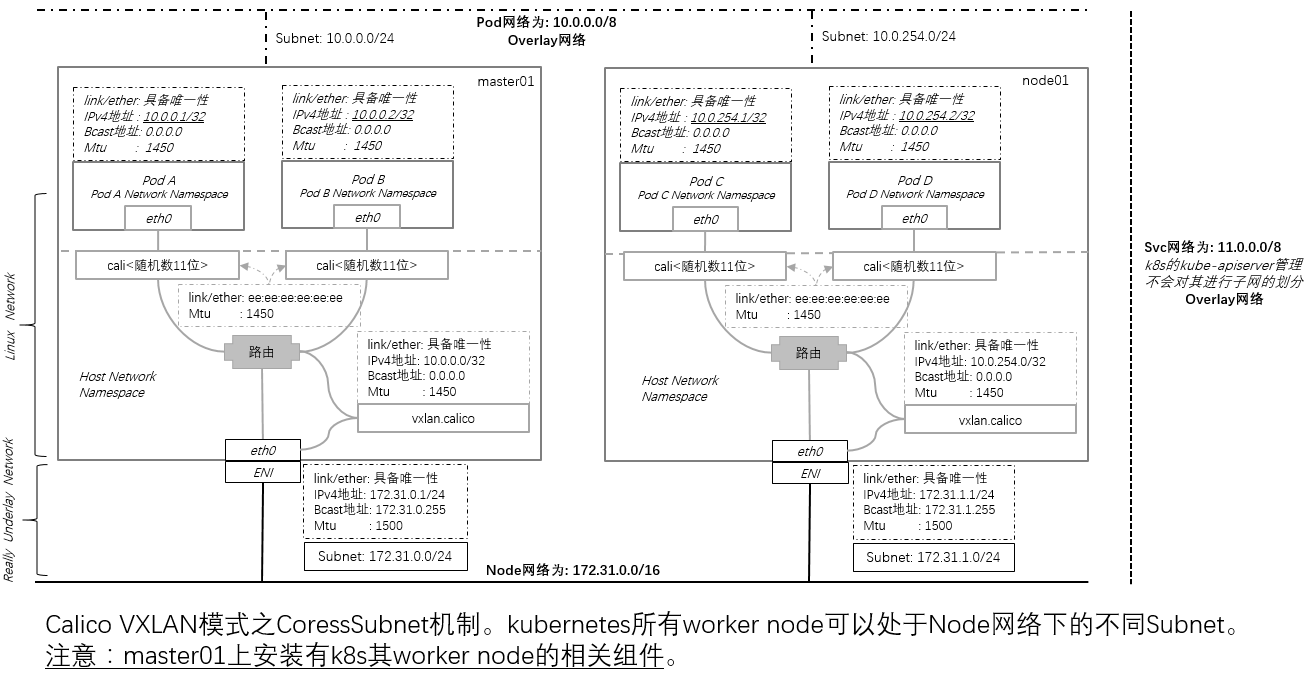
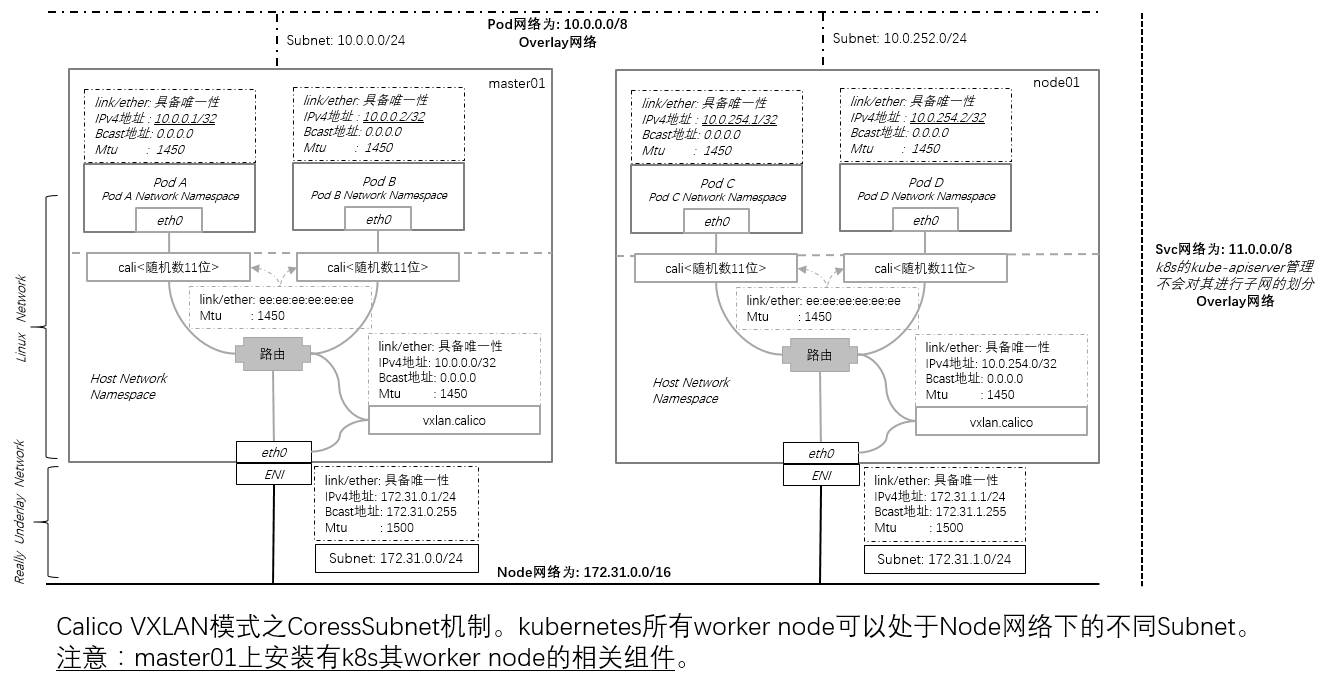
modified

Changed region(s): [[0.0, 0.0, 0.997, 0.8711], [0.0312, 0.9022, 0.9347, 0.9956], [0.8412, 0.0311, 0.8723, 0.0622]]

diff --git a/90.Addons/01.cni/02.calico/01.manifests-install-v3.26.5/03.kubernetes-api-datastore-more-than-50-nodes-but-VXLAN-CoressSubnet/install-step-and-describe.md b/90.Addons/01.cni/02.calico/01.manifests-install-v3.26.5/03.kubernetes-api-datastore-more-than-50-nodes-but-VXLAN-CoressSubnet/install-step-and-describe.md
@@ -5,22 +5,98 @@
 ## 1.2 各宿主机上的路由
 **Node网络下Subnet(172.31.0.0/24)下的节点(k8s node01)**
 ```
-.................
-.................
-.................
+Destination     Gateway         Genmask         Flags Metric Ref    Use Iface
+10.0.0.0        0.0.0.0         255.255.255.0   U     0      0        0 *
+10.0.0.1        0.0.0.0         255.255.255.255 UH    0      0        0 cali<随机数11位>
+10.0.0.2        0.0.0.0         255.255.255.255 UH    0      0        0 cali<随机数11位>
+10.0.0.3        0.0.0.0         255.255.255.255 UH    0      0        0 cali<随机数11位>
+........        .......         255.255.255.255 UH    0      0        0 cali<随机数11位>
+........        .......         255.255.255.255 UH    0      0        0 cali<随机数11位>
+10.0.0.255      0.0.0.0         255.255.255.255 UH    0      0        0 cali<随机数11位>   # node01宿主机上相关Pod副本(例如IP为10.0.0.255)在本机的路由 
+
+10.0.1.0        172.31.0.2      255.255.255.0   UG    0      0        0 eth0 
+10.0.2.0        172.31.0.3      255.255.255.0   UG    0      0        0 eth0 
+10.0.3.0        172.31.0.4      255.255.255.0   UG    0      0        0 eth0 
+........        ........        255.255.255.0   UG    0      0        0 eth0 
+........        ........        255.255.255.0   UG    0      0        0 eth0 
+10.0.251.0      172.31.0.252    255.255.255.0   UG    0      0        0 eth0               # node01宿主机所在Node网络下其Sbunet中其它宿主机从Pod网分得subnet的路由  
+
+0.0.0.0         172.31.0.253    0.0.0.0         UG    0      0        0 eth0               # node01到所处Node网络下Subnet其网关的路由 
+172.31.0.0      0.0.0.0         255.255.255.0   U     0      0        0 eth0               # node01到所处Node网络下Subnet其网关的路由 
+
+10.0.252.0      10.0.252.0      255.255.255.0   UG    0      0        0 vxlan.calico      
+10.0.253.0      10.0.253.0      255.255.255.0   UG    0      0        0 vxlan.calico      
+10.0.254.0      10.0.254.0      255.255.255.0   UG    0      0        0 vxlan.calico
+10.0.255.0      10.0.255.0      255.255.255.0   UG    0      0        0 vxlan.calico
+10.1.0.0        10.1.0.0        255.255.255.0   UG    0      0        0 vxlan.calico
+10.1.1.0        10.1.1.0        255.255.255.0   UG    0      0        0 vxlan.calico
+............    ............    255.255.255.0   UG    0      0        0 vxlan.calico
+............    ............    255.255.255.0   UG    0      0        0 vxlan.calico     
+10.1.247.0      10.1.247.0      255.255.255.0   UG    0      0        0 vxlan.calico       # node01宿主机所在Node网绺下其Subnet之外Subnet中相关宿主机从Pod网络分得subnet的路由 
 ```
 
 **Node网络下Subnet(172.31.0.0/24)下的节点(k8s node02)**
 ```
-.................
-.................
+Destination     Gateway         Genmask         Flags Metric Ref    Use Iface
+10.0.1.0        0.0.0.0         255.255.255.0   U     0      0        0 * 
+10.0.1.1        0.0.0.0         255.255.255.255 UH    0      0        0 cali<随机数11位>
+10.0.1.2        0.0.0.0         255.255.255.255 UH    0      0        0 cali<随机数11位>
+10.0.1.3        0.0.0.0         255.255.255.255 UH    0      0        0 cali<随机数11位>
+........        .......         255.255.255.255 UH    0      0        0 cali<随机数11位>
+........        .......         255.255.255.255 UH    0      0        0 cali<随机数11位>
+10.0.1.255      0.0.0.0         255.255.255.255 UH    0      0        0 cali<随机数11位>   # node02宿主机上相关Pod副本(例如IP为10.0.1.255)在本机的路由  
+
+10.0.0.0        172.31.0.1      255.255.255.0   UG    0      0        0 eth0 
+10.0.2.0        172.31.0.3      255.255.255.0   UG    0      0        0 eth0 
+10.0.3.0        172.31.0.4      255.255.255.0   UG    0      0        0 eth0 
+........        ............    255.255.255.0   UG    0      0        0 eth0 
+........        ............    255.255.255.0   UG    0      0        0 eth0 
+10.0.251.0      172.31.0.252    255.255.255.0   UG    0      0        0 eth0               # node02宿主机所在Node网络下其Sbunet中其它宿主机从Pod网分得subnet的路由  
+
+0.0.0.0         172.31.0.253    0.0.0.0         UG    0      0        0 eth0               # node02到所处Node网络下Subnet其网关的路由  
+172.31.0.0      0.0.0.0         255.255.255.0   U     0      0        0 eth0               # node02到所处Node网络下Subnet其网关的路由  
+
+10.0.252.0      10.0.252.0      255.255.255.0   UG    0      0        0 vxlan.calico    
+10.0.253.0      10.0.253.0      255.255.255.0   UG    0      0        0 vxlan.calico    
+10.0.254.0      10.0.254.0      255.255.255.0   UG    0      0        0 vxlan.calico
+10.0.255.0      10.0.255.0      255.255.255.0   UG    0      0        0 vxlan.calico
+10.1.0.0        10.1.0.0        255.255.255.0   UG    0      0        0 vxlan.calico
+10.1.1.0        10.1.1.0        255.255.255.0   UG    0      0        0 vxlan.calico
+............    ............    255.255.255.0   UG    0      0        0 vxlan.calico
+............    ............    255.255.255.0   UG    0      0        0 vxlan.calico           
+10.1.247.0      10.1.247.0      255.255.255.0   UG    0      0        0 vxlan.calico       # node02宿主机所在Node网绺下其Subnet之外Subnet中相关宿主机从Pod网络分得subnet的路由
 ```
 
-**Node网络下Subnet(172.31.1.0/24)下的节点(k8s node255)**
+**Node网络下Subnet(172.31.1.0/24)下的节点(k8s node253)**
 ```
-.................
-.................
-.................
+Destination     Gateway         Genmask         Flags Metric Ref    Use Iface
+10.0.252.0      0.0.0.0         255.255.255.0   U     0      0        0 *
+10.0.252.1      0.0.0.0         255.255.255.255 UH    0      0        0 cali<随机数11位>
+10.0.252.2      0.0.0.0         255.255.255.255 UH    0      0        0 cali<随机数11位>
+10.0.252.3      0.0.0.0         255.255.255.255 UH    0      0        0 cali<随机数11位>
+..........      .......         255.255.255.255 UH    0      0        0 cali<随机数11位>
+..........      .......         255.255.255.255 UH    0      0        0 cali<随机数11位>
+10.0.252.255    0.0.0.0         255.255.255.255 UH    0      0        0 cali<随机数11位>   # node253宿主机上相关Pod副本(例如IP为10.0.252.255)在本机的路由
+
+10.0.253.0      172.31.1.2      255.255.255.0   UG    0      0        0 eth0
+10.0.254.0      172.31.1.3      255.255.255.0   UG    0      0        0 eth0 
+10.0.255.0      172.31.1.4      255.255.255.0   UG    0      0        0 eth0 
+10.1.0.0        172.31.1.5      255.255.255.0   UG    0      0        0 eth0 
+10.1.1.0        172.31.1.6      255.255.255.0   UG    0      0        0 eth0 
+............    ............    255.255.255.0   UG    0      0        0 eth0 
+............    ............    255.255.255.0   UG    0      0        0 eth0 
+10.1.247.0      172.31.1.252    255.255.255.0   UG    0      0        0 eth0               # node253宿主机所在Node网络下其Sbunet中其它宿主机从Pod网分得subnet的路由
+
+0.0.0.0         172.31.1.253    0.0.0.0         UG    0      0        0 eth0               # node253到所处Node网络下Subnet其网关的路由
+172.31.1.0      0.0.0.0         255.255.255.0   U     0      0        0 eth0               # node253到所处Node网络下Subnet其网关的路由
+
+10.0.0.0        10.0.0.0        255.255.255.0   UG    0      0        0 vxlan.calico
+10.0.1.0        10.0.1.0        255.255.255.0   UG    0      0        0 vxlan.calico
+10.0.2.0        10.0.2.0        255.255.255.0   UG    0      0        0 vxlan.calico
+10.0.3.0        10.0.3.0        255.255.255.0   UG    0      0        0 vxlan.calico
+........        ........        255.255.255.0   UG    0      0        0 vxlan.calico
+........        ........        255.255.255.0   UG    0      0        0 vxlan.calico
+10.0.251.0      10.0.251.0      255.255.255.0   UG    0      0        0 vxlan.calico       # node253宿主机所在Node网绺下其Subnet之外Subnet中相关宿主机从Pod网络分得subnet的路由 
 ```
 
 ## 1.3 同宿主机上Pod间的通信
